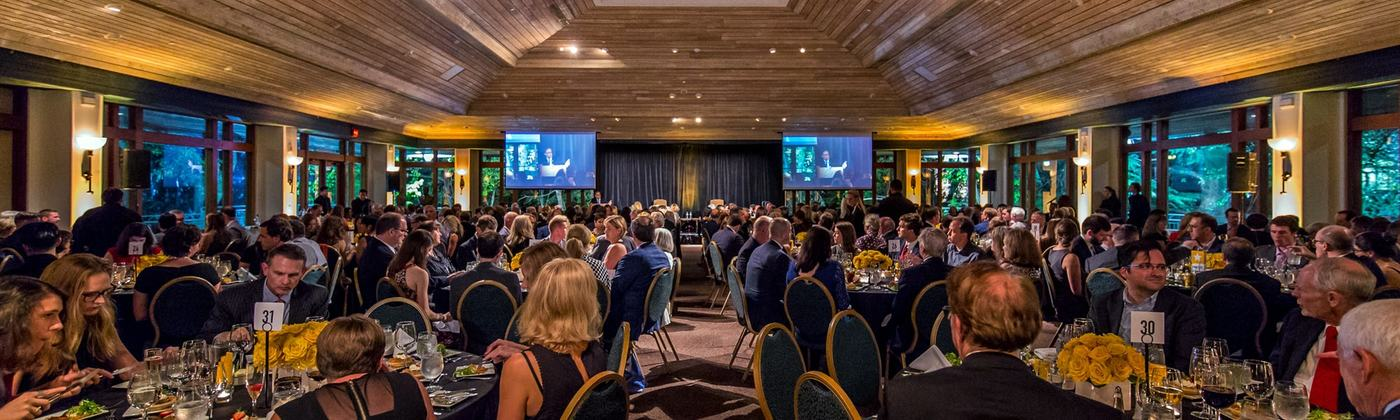
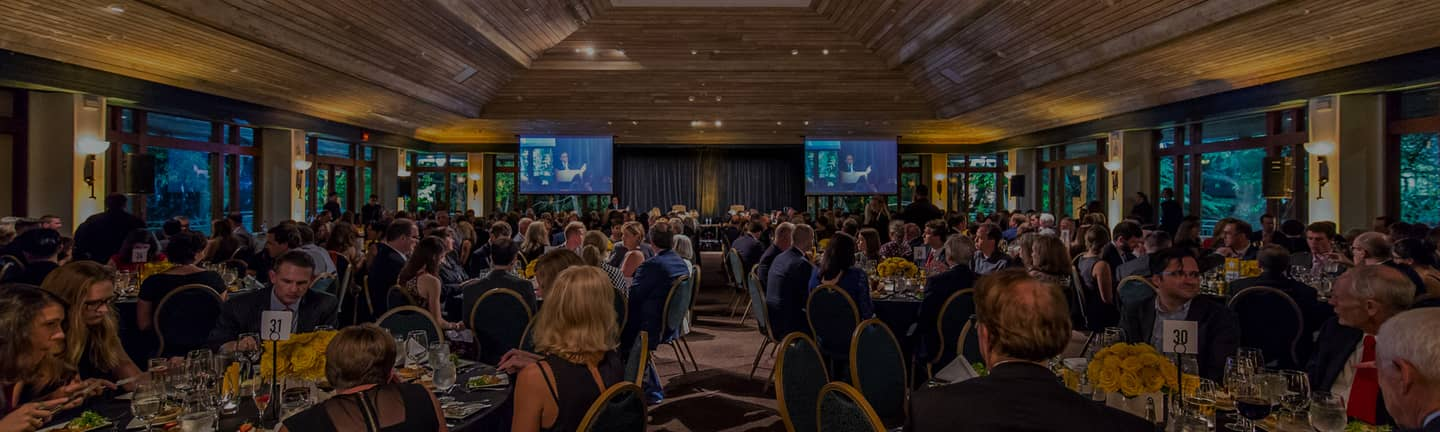
use darkened img for circle page bg

diff --git a/static/sass/pages/_circle.scss b/static/sass/pages/_circle.scss
@@ -101,9 +101,10 @@ body {
 }
 
 .circle-hero {
-  background-position-x: 50%;
   background-image: url('../img/circle-bg.jpg');
-  background-repeat: repeat;
+  background-position-y: 90%;
+  background-repeat: no-repeat;
+  background-size: cover;
   padding-bottom: $size-giant;
   padding-top: $size-giant;
 
